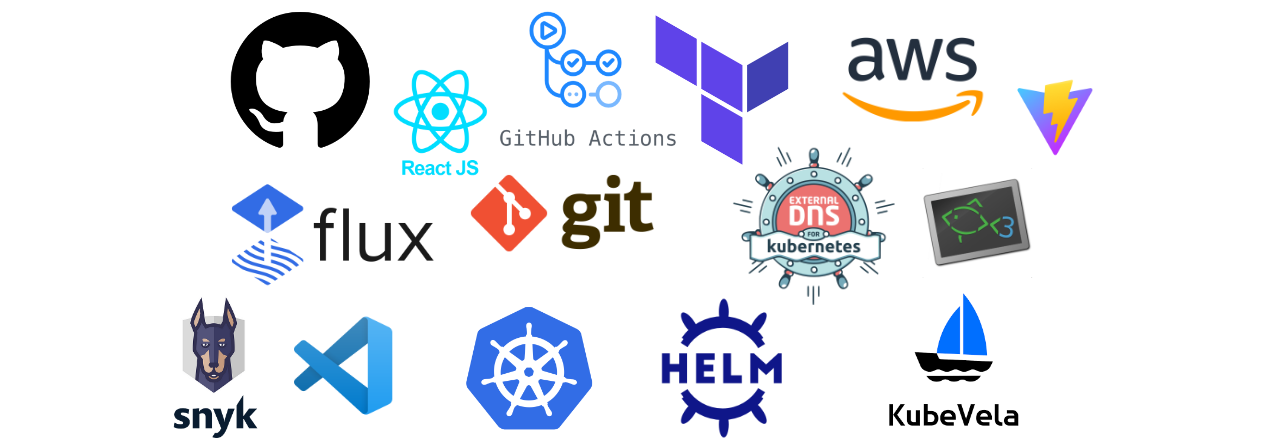
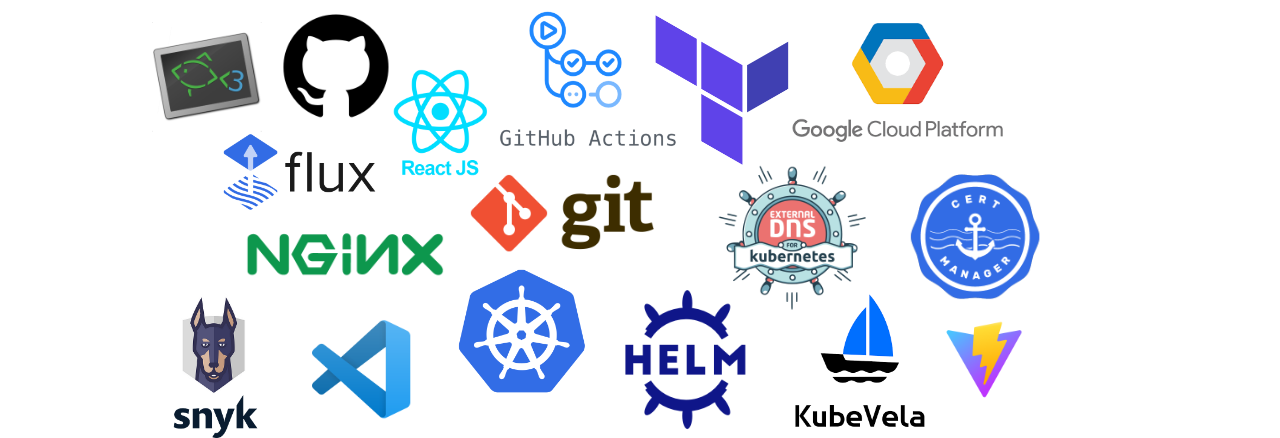
Updated app content GCP tech stack (#31)
* Updated app content with current tech stack

* Upgrade npm packages

* Remove dummy manifests

Changed region(s): [[0.2188, 0.0297, 0.875, 1.0], [0.0938, 0.0297, 0.3438, 0.653]]

diff --git a/app/src/pages/Index.jsx b/app/src/pages/Index.jsx
@@ -26,23 +26,30 @@ const Index = () => (
             Code version control is handled by Git, and the code is stored in GitHub.
           </li>
           <li>
-            Terraform is used to provision infrastructure in AWS cloud. EKS is
-            bootstrapped with FluxCD amongs other things.
+            Terraform is used to provision infrastructure in GCP. GKE is
+            bootstrapped with FluxCD.
           </li>
           <li>
-            Github action is used to build and push application docker images to ECR.
+            Github action is used to build and push application docker images to GAR.
           </li>
           <li>FluxCD provides GitOps automating application image updates, installes addons,
             and uses the Github repo as source of truth for kubernetes manifests.
           </li>
           <li>
             Kubevela is used to customize Application components such that application
-            manifests are easy to configure and maintain.
+            manifests are easy to configure and maintain. Application versioning is enabled
+            using tagging of Application manifests which is done by GitHub actions upon 
+            push to main.
           </li>
           <li>
-            ExternalDNS is installed on the cluster to automate DNS record creation, and
-            AWS Loadbalancer Controller is used to automate provisioning and management
-            of Elastic Load Balancers for the kubernetes cluster.
+            ExternalDNS is installed on the cluster to automate DNS record creation.
+          </li>
+          <li>
+            Nginx ingress controller is used as an internal loadbalancer routing external
+            traffic to the application pods in the cluster.
+          </li>
+          <li>
+            Cert-manager is used to automate issuance and renewal of TLS certificates.
           </li>
         </ul>
         Please feel free to check out my <Link to="/resume">resume</Link>, and do not

diff --git a/app/src/data/resume/skills.jsx b/app/src/data/resume/skills.jsx
@@ -93,8 +93,8 @@ const skills = [
     category: ['Kubernetes Tools'],
   },
   {
-    title: 'Certmanager',
-    competency: 3,
+    title: 'Cert-manager',
+    competency: 4,
     category: ['Kubernetes Tools'],
   },
   {
@@ -110,6 +110,16 @@ const skills = [
   {
     title: 'Velero',
     competency: 2,
+    category: ['Kubernetes Tools'],
+  },
+  {
+    title: 'External-DNS',
+    competency: 4,
+    category: ['Kubernetes Tools'],
+  },
+  {
+    title: 'Ingress NGINX',
+    competency: 3,
     category: ['Kubernetes Tools'],
   },
   {
